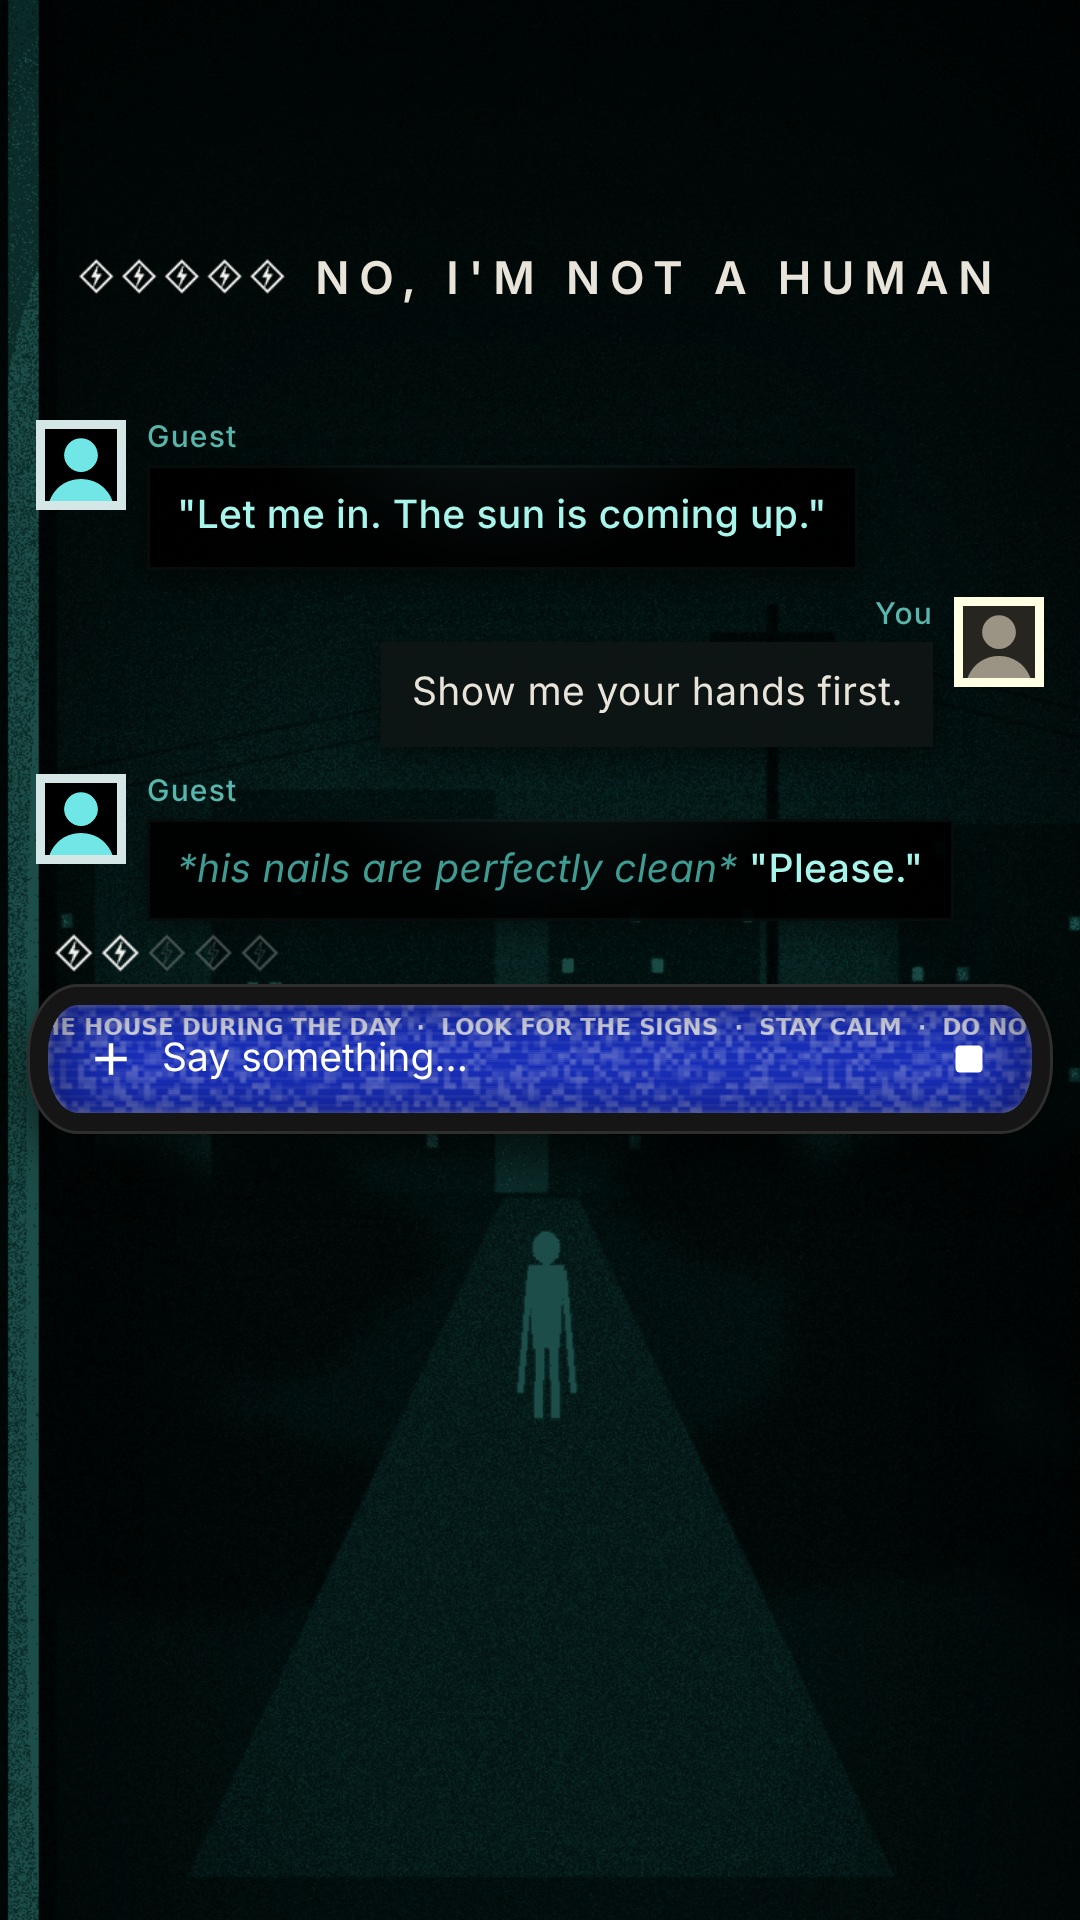
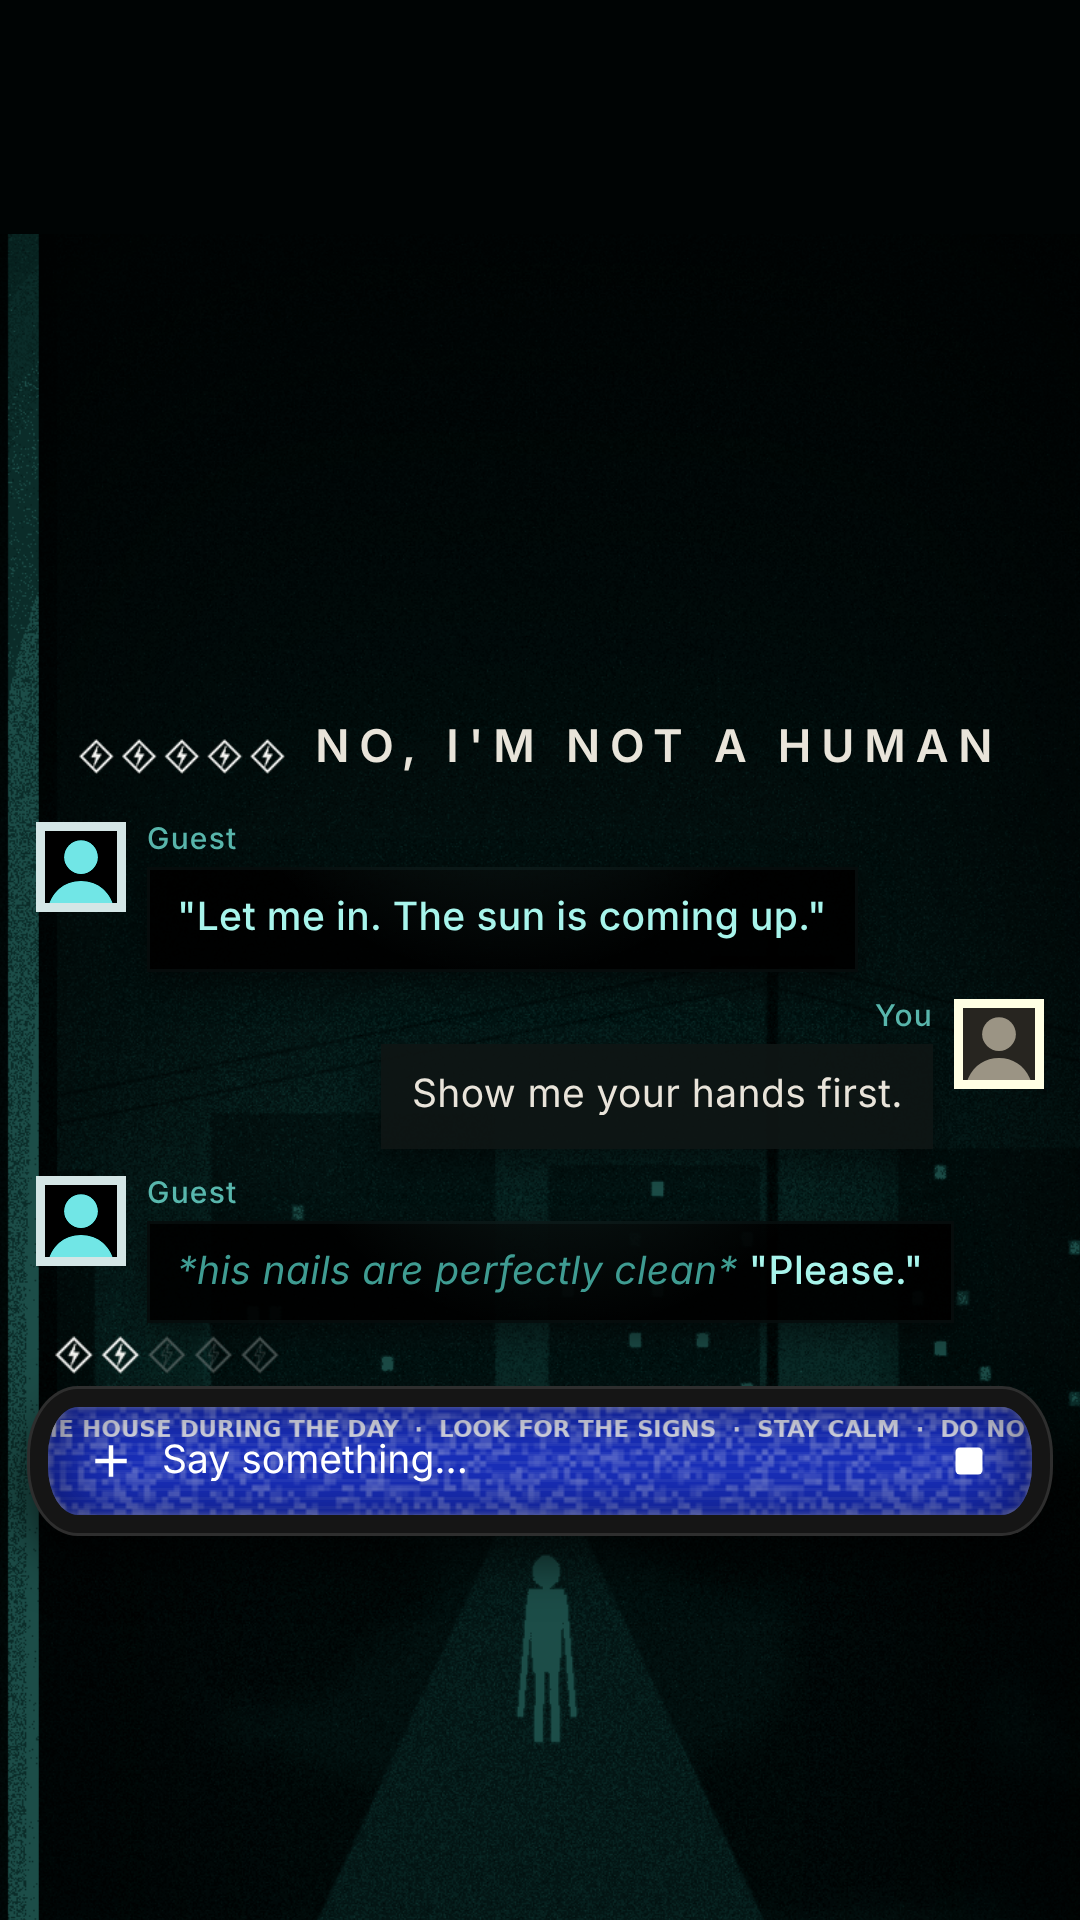
Hub covers: move chat to the lower part Hub displays
Claude-Session: https://claude.ai/code/session_011AdgnKtmEQrsYZ6duuAFrr

diff --git a/tools/hub-previews.js b/tools/hub-previews.js
@@ -1,7 +1,6 @@
-// Обложки тем для Tavo Hub в формате 9:16. Hub прячет края картинки: карточка
-// показывает средний квадрат, страница темы закрывает верх навигацией, а низ —
-// названием. Поэтому чат с настоящим CSS темы стоит в центральной полосе,
-// над ним маленький логотип, сверху и снизу только фон.
+// Обложки тем для Tavo Hub в формате 9:16. Hub показывает в карточке и на
+// странице темы нижнюю часть картинки (примерно 40–90% высоты), поэтому чат
+// с настоящим CSS темы и маленький логотип стоят внизу, сверху только фон.
 // Для каждой темы две картинки: покой и генерация.
 //
 // Запуск: node tools/hub-previews.js   (нужен playwright)
@@ -31,7 +30,7 @@ const THEMES = [
   },
   {
     dir: 'not-a-human',
-    bg: 'center -30px / 420px auto',
+    bg: 'center 78px / 420px auto',
     name: 'Guest',
     title: `<img src="ASSETS/energy-5.png" style="height:12px">
       <span style="font:600 15px Inter,sans-serif;color:#e9e4da;letter-spacing:.22em;white-space:nowrap">NO, I'M NOT A HUMAN</span>`,
@@ -103,8 +102,8 @@ function page(t, m, generating) {
     html,body{margin:0}
     body{width:${W}px;height:${H}px;overflow:hidden;display:flex;flex-direction:column;
       background:${rgba(m.background.color)} url("${bg}") ${t.bg} no-repeat;font-family:Inter,"Roboto",sans-serif}
-    .head{height:128px;box-sizing:border-box;display:flex;align-items:center;justify-content:center;
-      gap:10px;padding-top:56px}
+    .head{height:262px;box-sizing:border-box;display:flex;align-items:flex-end;justify-content:center;
+      gap:10px;padding-bottom:4px}
     .top{display:flex;flex-direction:column}
     .list{flex:1;padding:12px 12px 0;display:flex;flex-direction:column;gap:9px}
     .row{display:flex;gap:7px;align-items:flex-start}.row.u{flex-direction:row-reverse}
